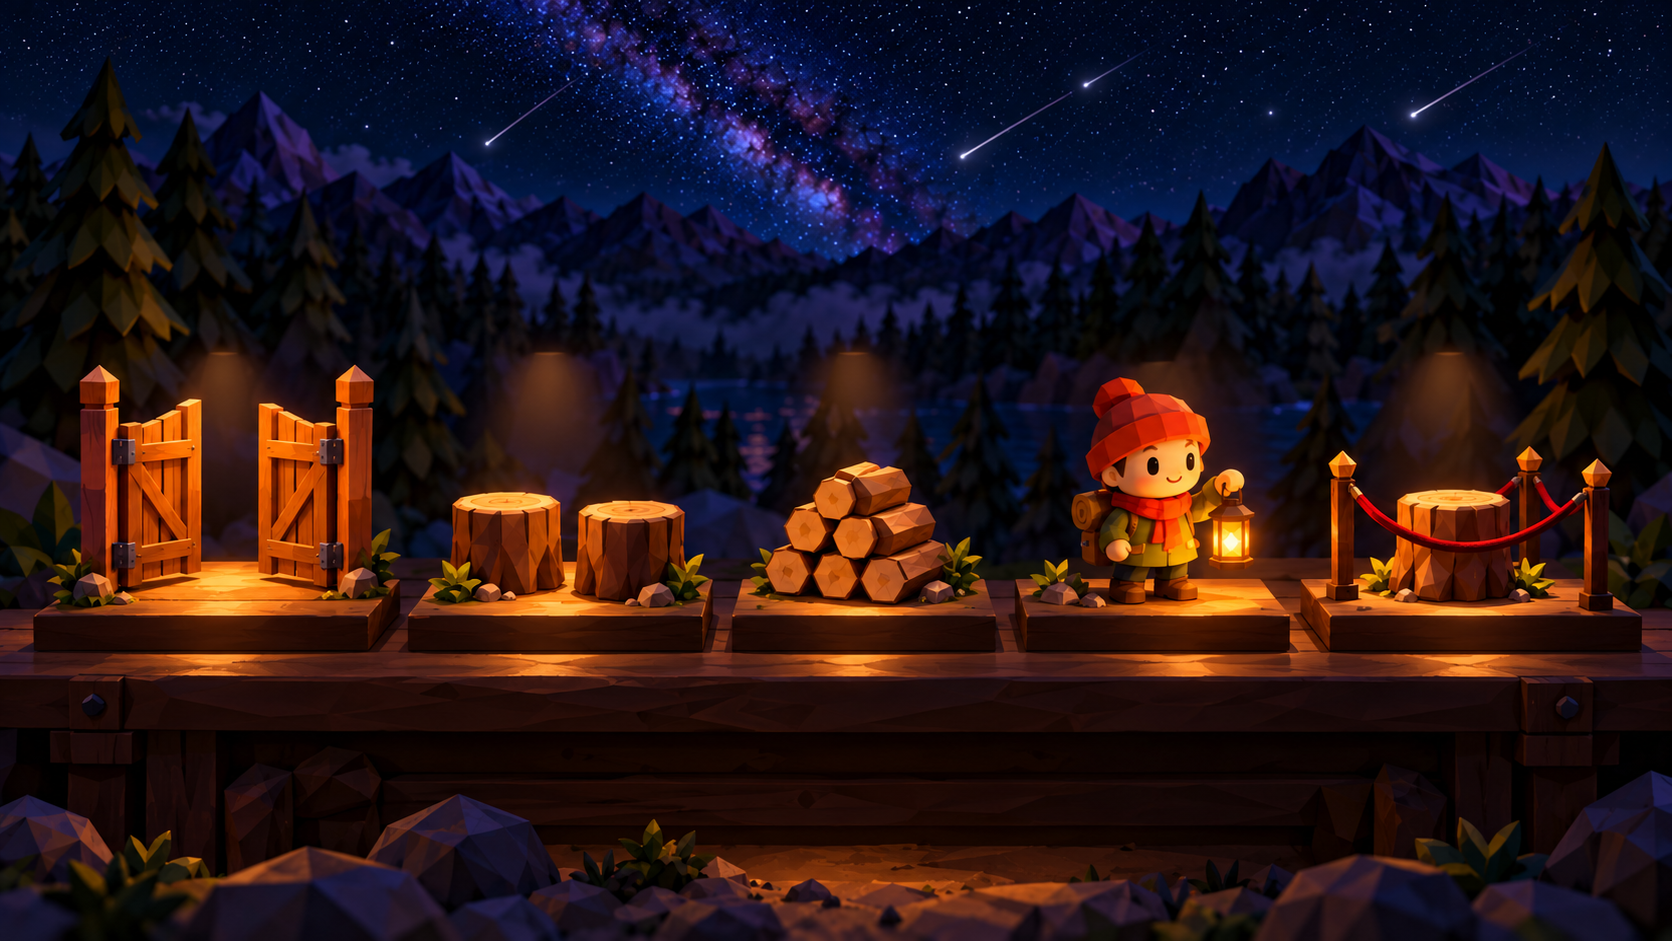
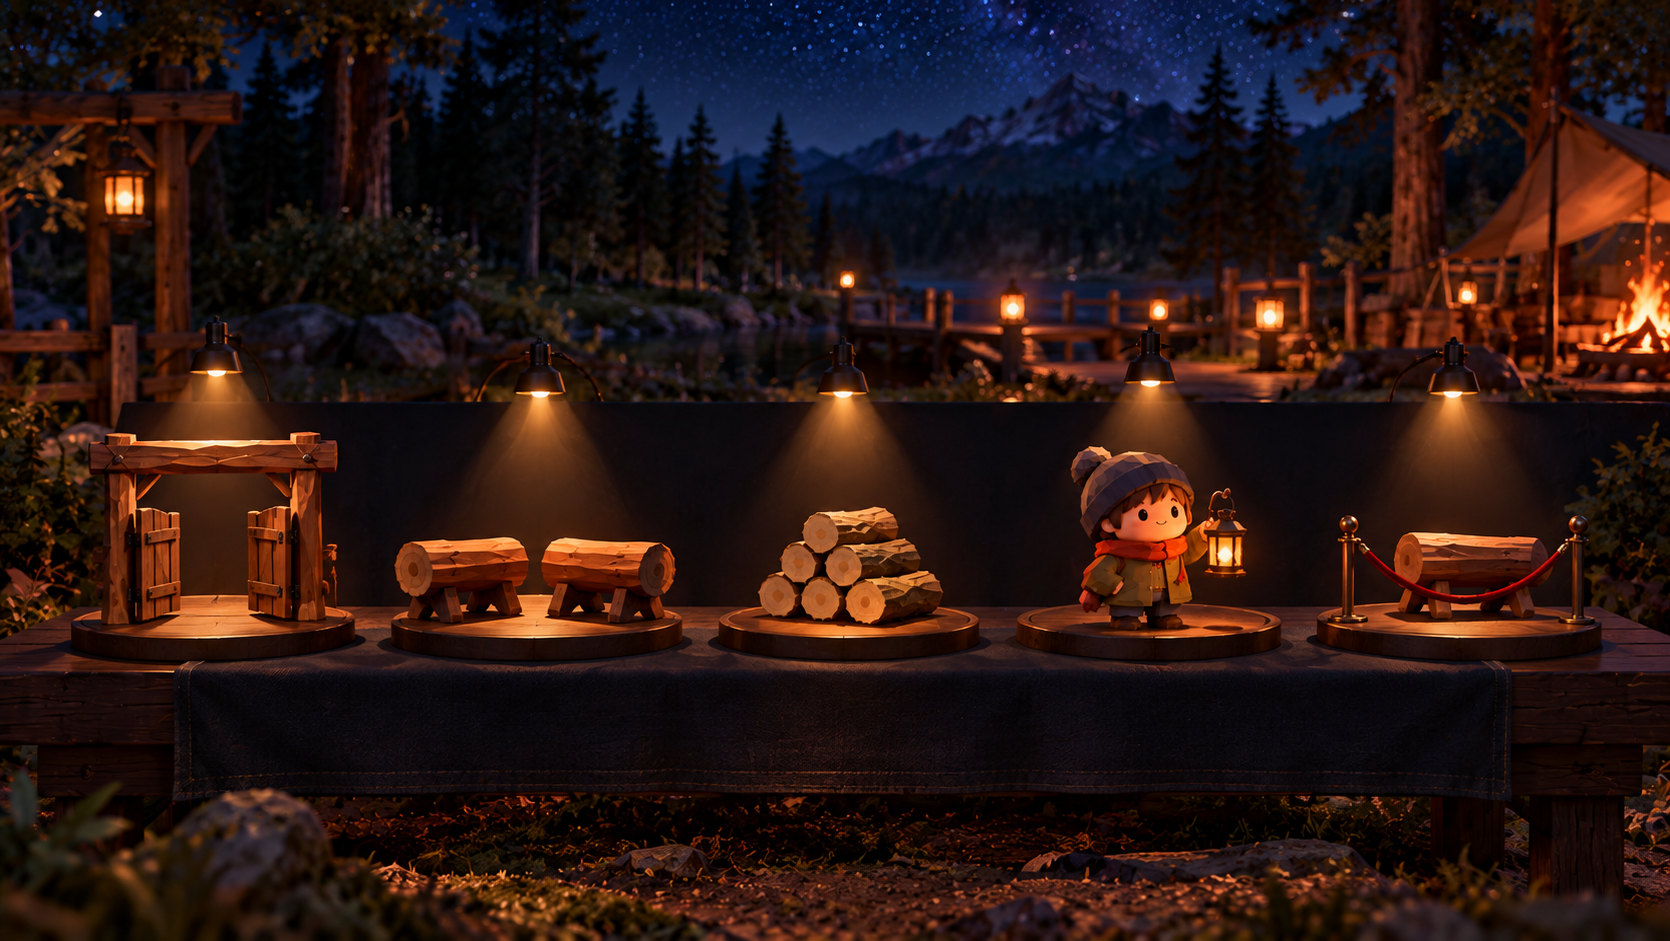
Refresh CAMP environments and preserve original image set for quick rollback

diff --git a/README.md b/README.md
@@ -27,3 +27,18 @@
 
 원본 Release ZIP은 고정본입니다. 저장소의 이미지 교체가 기존 Release 첨부 ZIP을
 자동 변경하지는 않습니다. 최신본은 Code → Download ZIP으로 받으세요.
+
+## 이미지 세트 원복
+
+현재 `peppo_camp_deck/images/`는 새 배경 이미지, `peppo_camp_deck/image2/`는
+교체 전 원본입니다. `REF-01.png`는 실제 사례 자료이므로 양쪽에서 동일합니다.
+덱 HTML과 텍스트는 변경하지 않았습니다.
+
+다운로드한 폴더에서 다음처럼 이름을 바꾸면 즉시 원복됩니다.
+
+1. `images` → `images_temp`
+2. `image2` → `images`
+3. `images_temp` → `image2`
+
+다시 같은 순서를 실행하면 새 이미지로 돌아옵니다. 브라우저를 새로고침하세요.
+각 폴더의 `SET.txt`로 원본/신규 세트를 확인할 수 있습니다.
